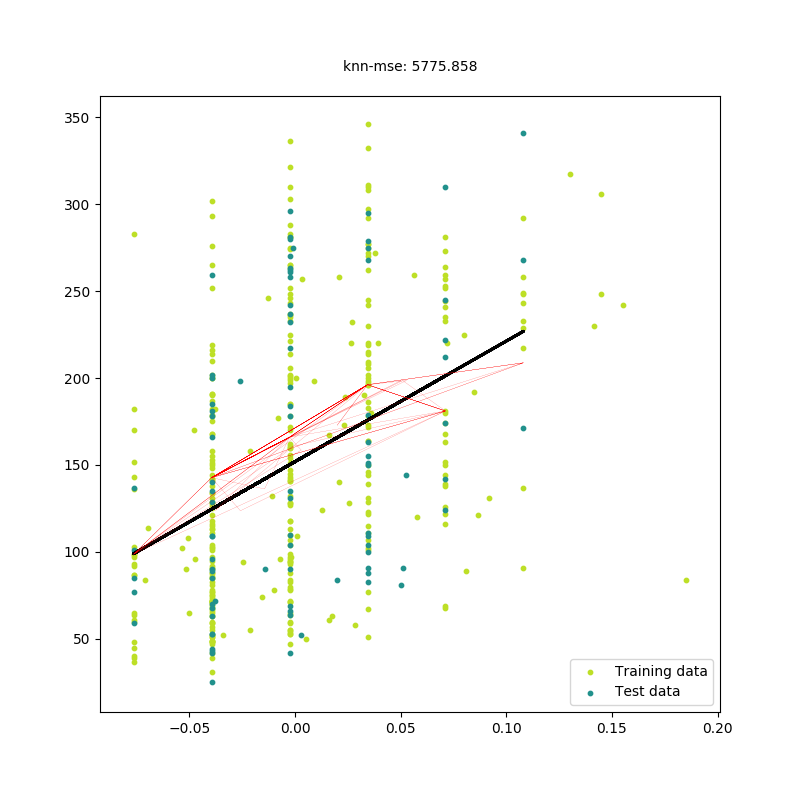
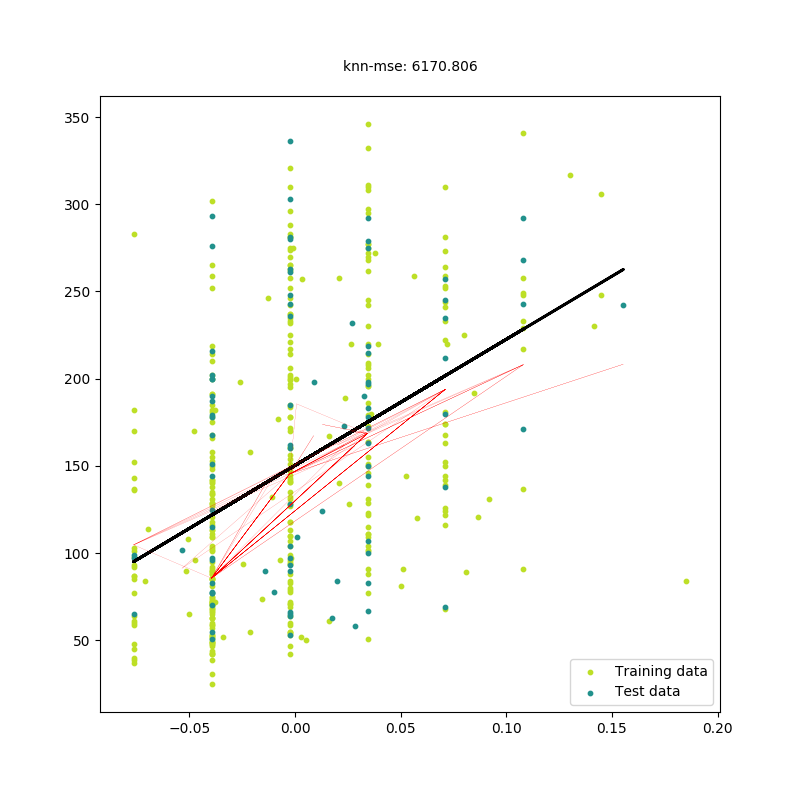
update

diff --git a/Datasci_Fall_18/ds310/Lab/regression_sk.py b/Datasci_Fall_18/ds310/Lab/regression_sk.py
@@ -53,9 +53,8 @@ class Regression(object):
             error = mean_absolute_error(y_true=y_real, y_pred=y_pred)
         return error
 
-    def plot_line(self, y_pred, plt, error, metric, linewidth, model, color):
-        plt.plot(X_test, y_pred, color=color, linewidth=linewidth, label="Prediction")
-        plt.title(model + "-" + metric + ": {0:.7g}\n".format(error), fontsize=10)
+    def plot_line(self, y_pred, plt, error, metric):
+        return NotImplementedError
 
 
 class LinearRegression(Regression):
@@ -69,8 +68,15 @@ class LinearRegression(Regression):
     def predict(self):
         return super(LinearRegression, self).predict()
 
-    def plot_line(self, y_pred, plt, error, metric, linewidth=2, model='linear', color='black'):
-        super(LinearRegression, self).plot_line(y_pred, plt, error, metric, linewidth, model, color)
+    def plot_line(self, y_pred, plt, error, metric):
+        plt.plot(X_test,
+                 y_pred=y_pred,
+                 plt=plt,
+                 color='black',
+                 linewidth=2,
+                 label="Prediction")
+        plt.title("linear-" + metric + ": {0:.7g}\n".format(error), fontsize=10)
+
 
 
 class KNNRegression(Regression):
@@ -94,8 +100,14 @@ class KNNRegression(Regression):
     def predict(self):
         return super(KNNRegression, self).predict()
 
-    def plot_line(self, y_pred, plt, error, metric, linewidth=0.1, model='knn', color='red'):
-        super(KNNRegression, self).plot_line(y_pred, plt, error, metric, linewidth, model, color)
+    def plot_line(self, y_pred, plt, error, metric):
+        plt.plot(X_test,
+                 y_pred=y_pred,
+                 plt=plt,
+                 color='red',
+                 linewidth=0.1,
+                 label="Prediction")
+        plt.title("knn-" + metric + ": {0:.7g}\n".format(error), fontsize=10)
 
 
 def grid_search_comparison(lr_err, metric='mse', neighbors=200):
